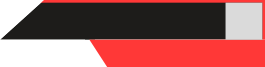
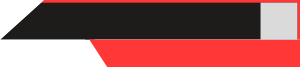
Changes

diff --git a/layout/versus_screen/index.js b/layout/versus_screen/index.js
@@ -67,10 +67,10 @@
             oldData[p+"_character_color"] != data[p+"_character_color"]){
                 $(`.${p}.character`).html(`
                     <div class="bg">
-                        <!--<div class="portrait" style='background-image: url(../../out/${p}_character_portrait.png)'></div>-->
-                        <video id="video${p}" class="video" width="auto" height="100%" autoplay muted>
+                        <div class="portrait" style='background-image: url(../../out/${p}_character_portrait.png)'></div>
+                        <!--<video id="video${p}" class="video" width="auto" height="100%" autoplay muted>
                             <source src="../../out/${p}_character_webm.webm">
-                        </video>
+                        </video>-->
                     </div>
                 `)
                 gsap.timeline()
@@ -88,14 +88,16 @@
                     )
                 
                     let vid = document.getElementById(`video${p}`);
-                    vid.addEventListener("timeupdate", function(){
-                        // Check you time here and
-                        if(t >= 5) //Where t = CurrentTime
-                        {
-                            this.pause();// Stop the Video
-                            this.currentTime = 5;
-                        }
-                    })
+                    if(vid){
+                        vid.addEventListener("timeupdate", function(){
+                            // Check you time here and
+                            if(t >= 5) //Where t = CurrentTime
+                            {
+                                this.pause();// Stop the Video
+                                this.currentTime = 5;
+                            }
+                        })
+                    }
             }
     
         })

diff --git a/layout/versus_screen/index.css b/layout/versus_screen/index.css
@@ -1,6 +1,6 @@
 @font-face {
-    font-family: "Roboto";
-    src: url("../include/Roboto-Regular.ttf") format("truetype");
+    font-family: "Roboto Condensed";
+    src: url("../include/Roboto-Condensed.ttf") format("truetype");
 }
 
 .text {
@@ -14,7 +14,7 @@
 }
 
 body {
-    font-family: Roboto;
+    font-family: "Roboto Condensed";
     letter-spacing: 1.2px;
     font-weight: bold;
     opacity: 0;
@@ -40,7 +40,7 @@ body {
     color: white;
     z-index: 9;
     width: 500px;
-    height: 120px;
+    height: 130px;
     background-color: #000000DF;
     display: flex;
     flex-direction: column;
@@ -75,14 +75,14 @@ body {
 }
 
 .container .name {
-    width: 300px;
-    font-size: 42px;
+    width: 380px;
+    font-size: 50px;
     flex-shrink: 1;
 }
 
 .container .real_name {
-    width: 300px;
-    font-size: 24px;
+    width: 380px;
+    font-size: 32px;
 }
 
 .logo {
@@ -104,7 +104,7 @@ body {
 
 .phase {
     position: absolute;
-    top: 80px;
+    top: 100px;
     left: 50%;
     transform: translateX(-50%);
     width: 600px;
@@ -112,7 +112,7 @@ body {
     background-size: cover;
     background-repeat: no-repeat;
     color: white;
-    font-size: 100px;
+    font-size: 120px;
     place-content: center;
     padding-left: 20px;
     padding-right: 20px;
@@ -125,11 +125,11 @@ body {
     left: 50%;
     transform: translateX(-50%);
     width: 600px;
-    height: 46px;
+    height: 80px;
     background-size: cover;
     background-repeat: no-repeat;
     color: white;
-    font-size: 50px;
+    font-size: 60px;
     place-content: center;
     padding-left: 20px;
     padding-right: 20px;
@@ -147,8 +147,8 @@ body {
 }
 
 .twitter {
-    font-size: 24px;
-    width: 300px;
+    font-size: 32px;
+    width: 380px;
 }
 
 .flagscontainer {

diff --git a/layout/scoreboard_simple/index.css b/layout/scoreboard_simple/index.css
@@ -25,7 +25,7 @@ body {
 }
 
 .container {
-    width: 265px;
+    width: 300px;
     height: 67px;
     background-size: cover;
     background-repeat: no-repeat;
@@ -35,7 +35,7 @@ body {
 
 .p1.container {
     background-position: 100% 0;
-    right: 1190px;
+    right: 1158px;
     top: 998px;
     background-image: url("./p1-container.png");
 }
@@ -51,11 +51,11 @@ body {
     position: absolute;
     left: 44px;
     top: 5px;
-    width: 168px;
+    width: 208px;
     height: 32px;
-    font-size: 24px;
-    padding-left: 6px;
-    padding-right: 6px;
+    font-size: 26px;
+    padding-left: 4px;
+    padding-right: 4px;
     justify-content: center;
     text-transform: uppercase;
 }
@@ -64,11 +64,11 @@ body {
     position: absolute;
     left: 105px;
     top: 40px;
-    width: 140px;
+    width: 180px;
     height: 24px;
-    font-size: 28px;
-    padding-left: 6px;
-    padding-right: 6px;
+    font-size: 24px;
+    padding-left: 4px;
+    padding-right: 4px;
     justify-content: center;
 }
 
